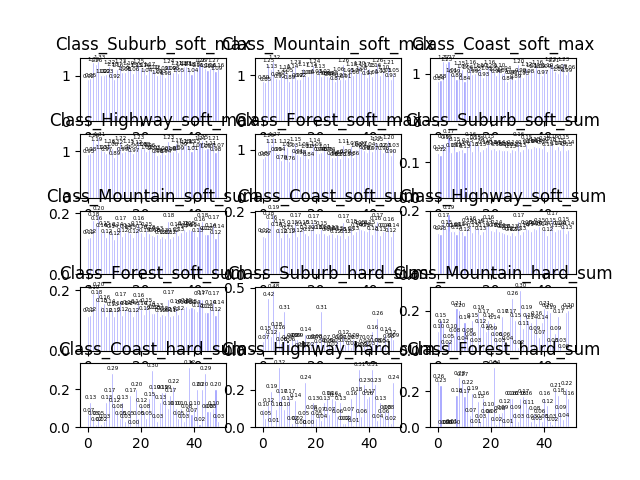
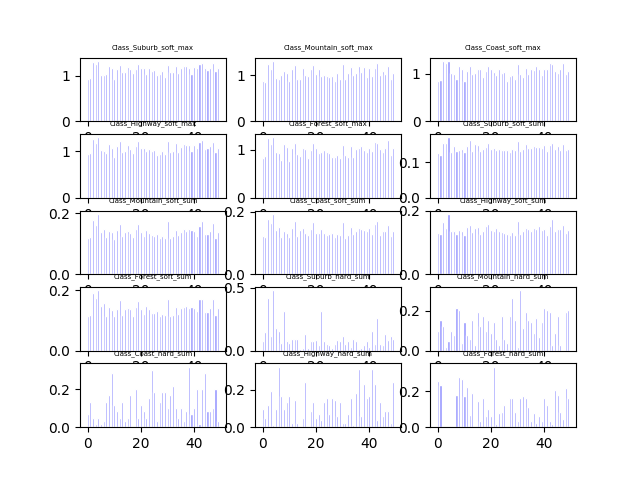
fj

diff --git a/hw2/problem3/util.py b/hw2/problem3/util.py
@@ -67,11 +67,7 @@ class Datamanager:
             plt.subplot(5,3,i+1)
             x=np.arange(data[i][3].shape[0])
             plt.bar(x, data[i][3], facecolor='#9999ff', edgecolor='white')
-            for x, y in zip(x, data[i][3]):
-            # ha: horizontal alignment
-            # va: vertical alignment
-                plt.text(x + 0.25, y + 0.01, '%.2f' % y,ha='center', va='bottom',size=4) 
-            plt.title('Class_{}_{}_{}'.format(data[i][0],data[i][1],data[i][2]))
+            plt.title('Class_{}_{}_{}'.format(data[i][0],data[i][1],data[i][2]),fontdict={'fontsize':5})
         #plt.show()
         plt.savefig(path)
     def embedding(self,points,mode):
